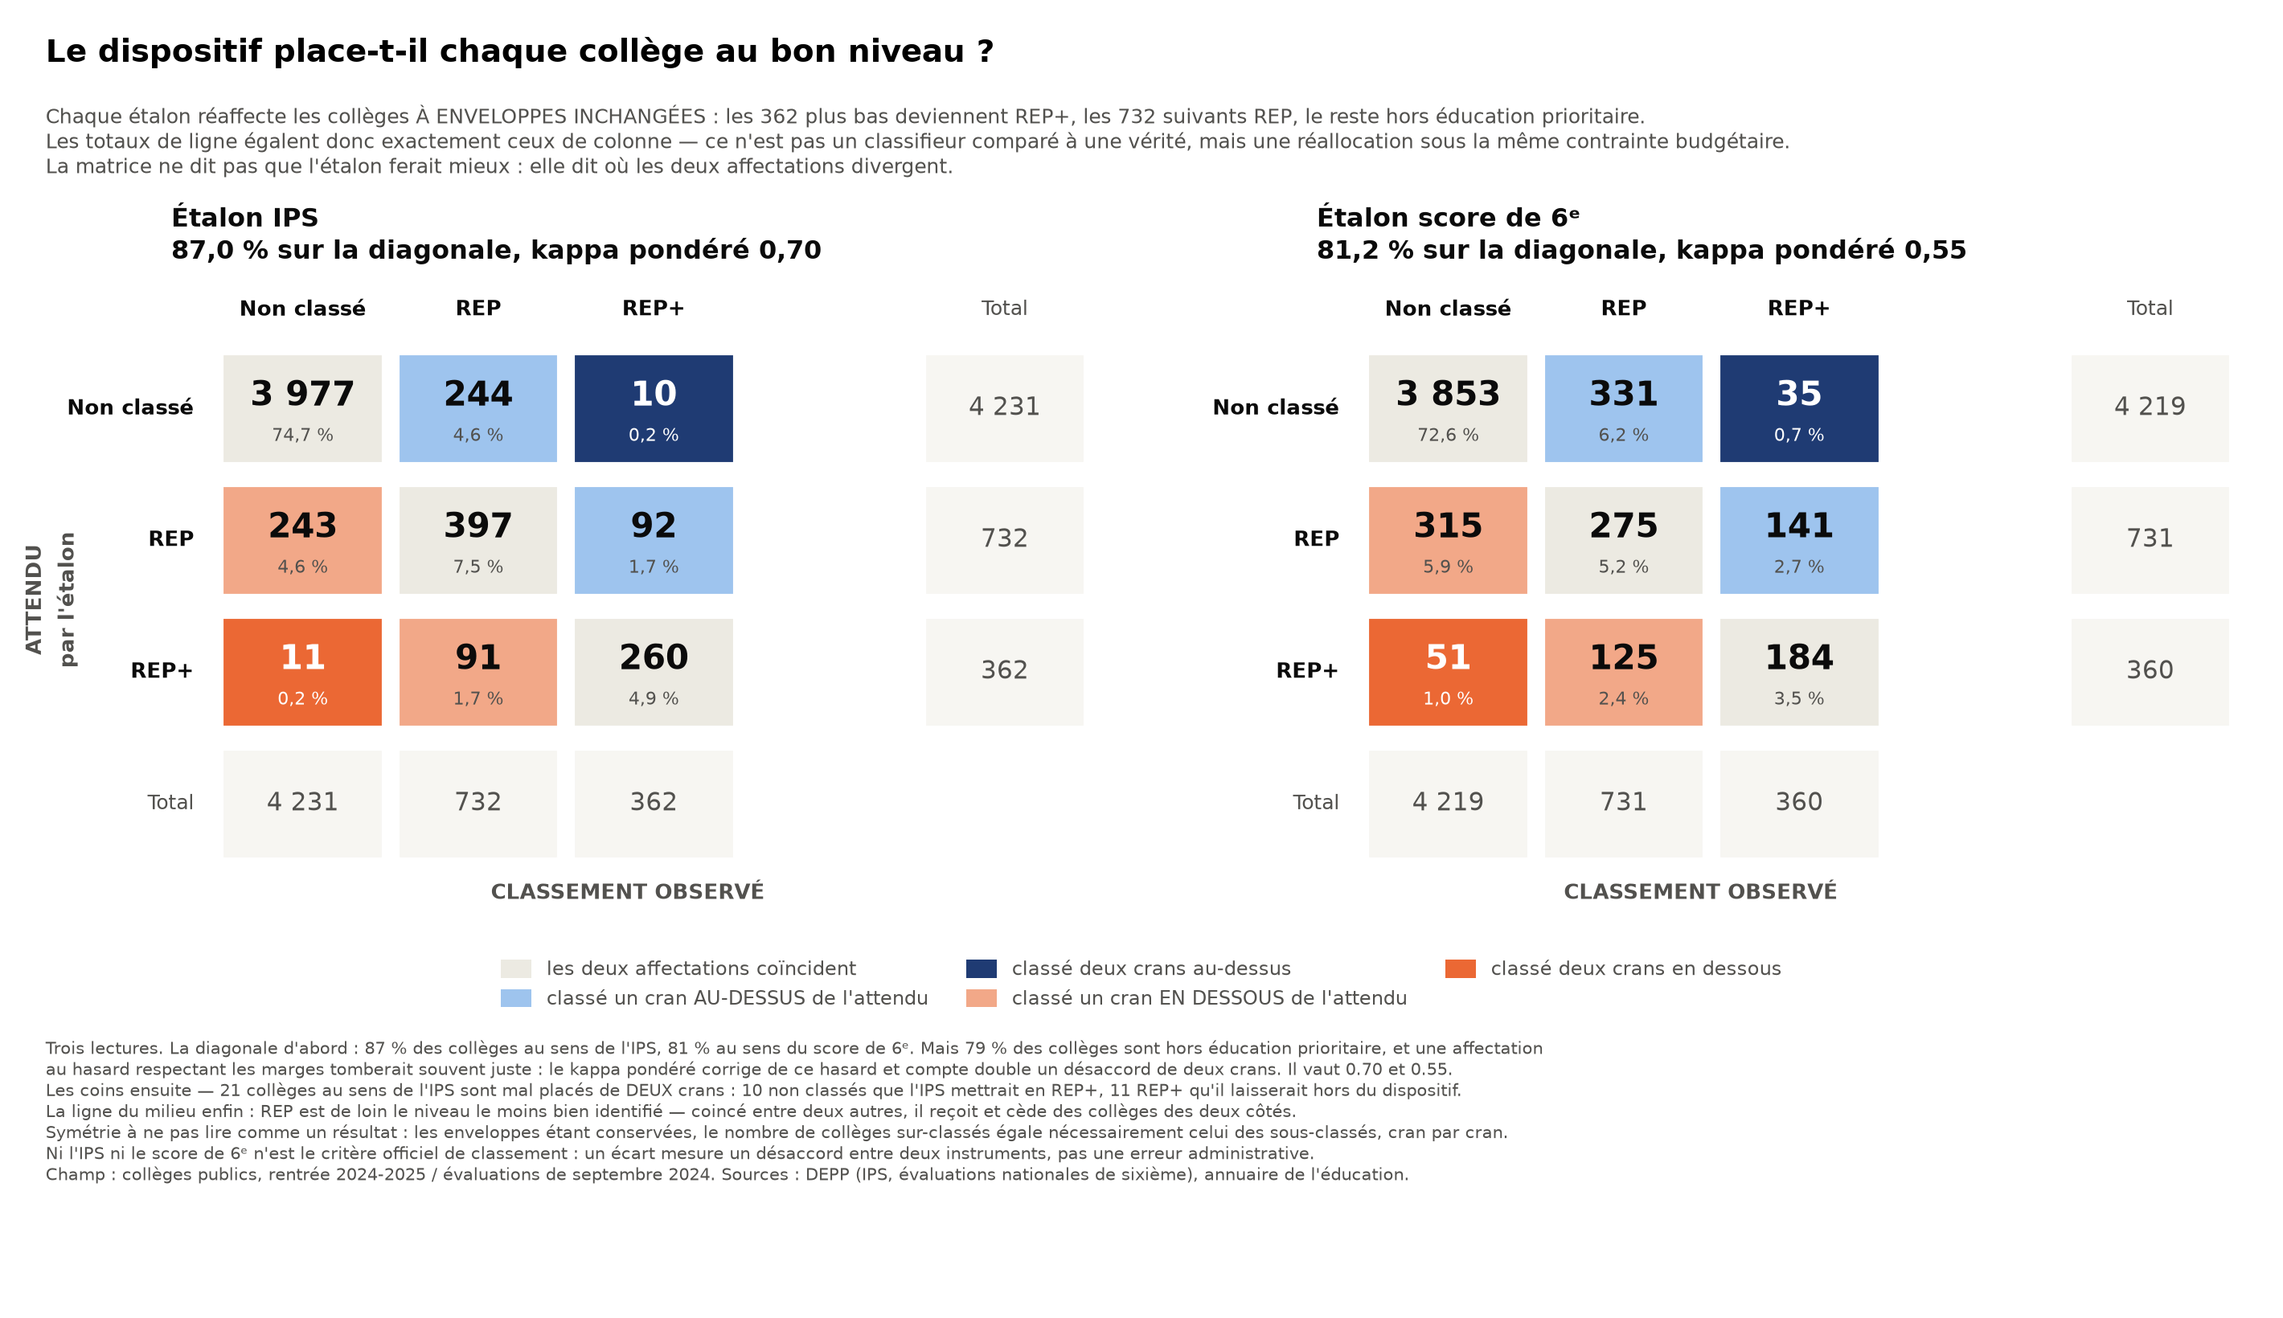
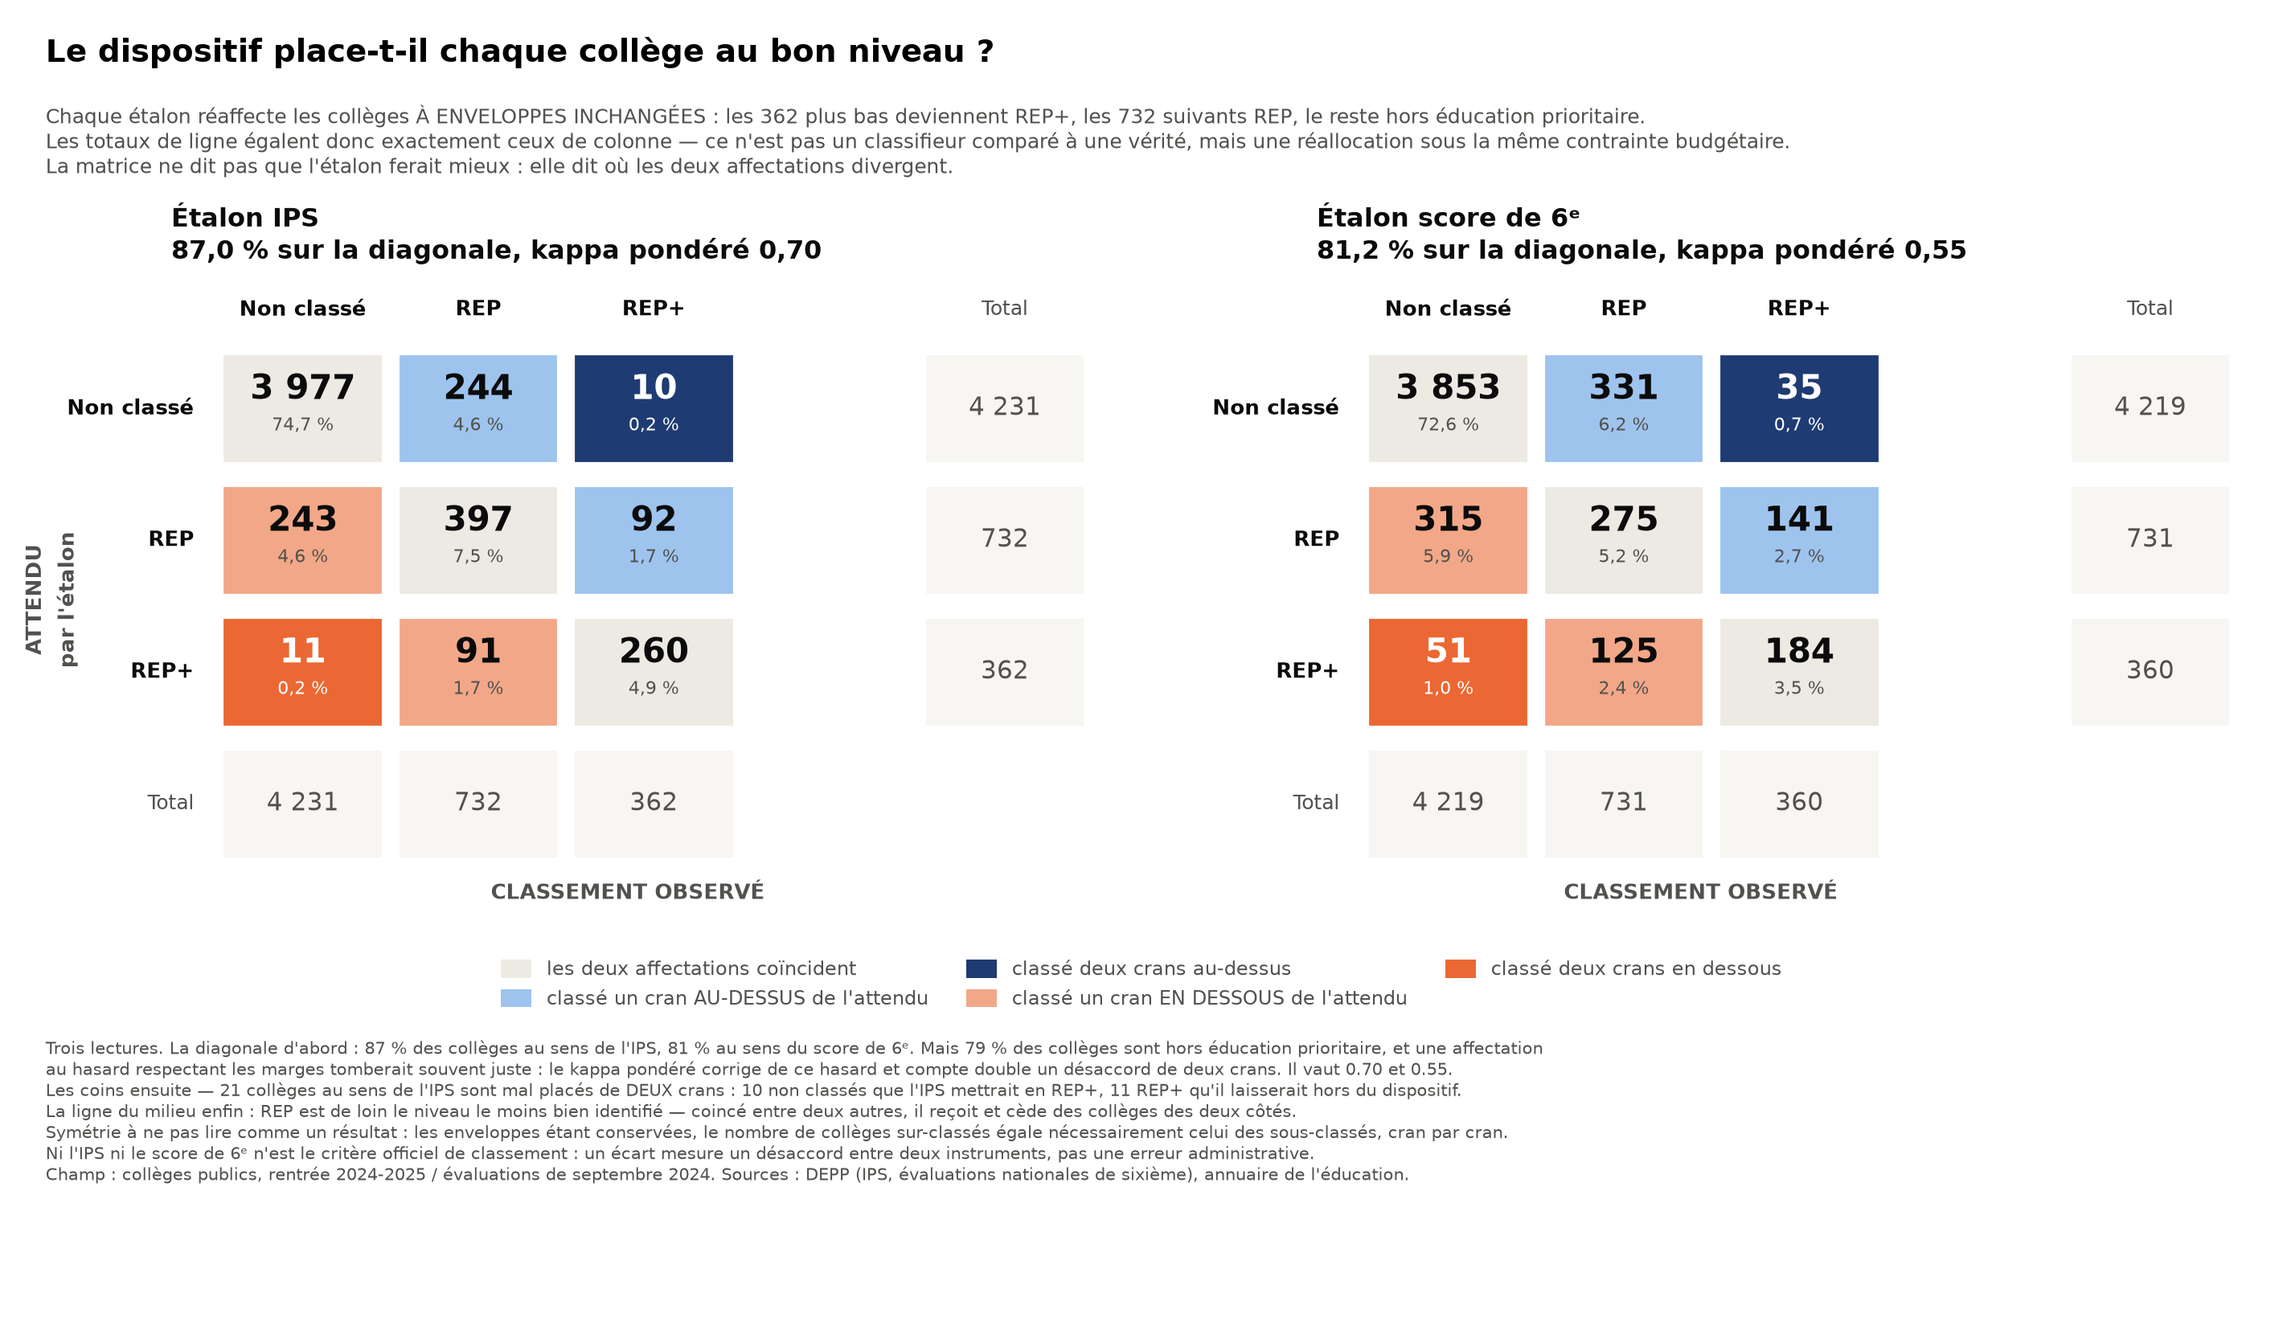
Seconde matrice : les desaccords que les marges d'interpretabilite n'expliquent pas
La premiere matrice compte comme desaccord des ecarts que l'instrument ne
permet pas de trancher. Les trois niveaux sont separes par DEUX seuils, et
autour de chacun l'etalon est aveugle : +/- 3 points d'IPS, recommandation de
la DEPP, et +/- 8 points de score de sixieme, soit deux erreurs-types de la
moyenne d'un college. La marge rejoint `etalons.py` sous `marge_interpretable`,
ou elle est justifiee.

Un college tombant dans une marge a plusieurs niveaux plausibles : son
classement observe ne peut pas etre contredit s'il figure parmi eux. On lui
attribue alors son niveau observe.

                      sans marge      avec marges
  IPS   diagonale        87,0 %          93,5 %
        kappa             0,70            0,85
  6e    diagonale        81,2 %          94,2 %
        kappa             0,55            0,83

CE QUE CE GAIN N'EST PAS

Ce n'est pas un resultat mais le prix de l'aveu d'imprecision : on cesse de
compter comme desaccords des cas sur lesquels on ne peut pas se prononcer. Le
chapo et la note le disent, faute de quoi la figure se lirait comme une
amelioration du dispositif.

Ce qui RESTE hors diagonale, en revanche, compte : 348 colleges au sens de
l'IPS et 310 au sens du score de sixieme sont franchement du mauvais cote d'un
seuil. Ce sont les seuls cas sur lesquels le projet se prononce.

UNE LIMITE PROPRE AU SCORE DE SIXIEME

Les deux seuils sont distants de 11 points pour les deux etalons. La marge de
[…]

diff --git a/src/matrices_classement.py b/src/matrices_classement.py
@@ -123,6 +123,109 @@ def matrice(cle: str) -> tuple[pd.DataFrame, dict]:
     return m, info
 
 
+def matrice_marges(cle: str) -> tuple[pd.DataFrame, dict]:
+    """Meme matrice, mais en tenant compte des marges d'interpretabilite.
+
+    LE PRINCIPE
+
+    Les trois niveaux sont separes par DEUX seuils : celui de REP+ et celui de
+    l'education prioritaire. Autour de chacun, l'etalon ne tranche pas — trois
+    points d'IPS, recommandation du producteur de la donnee ; huit points de
+    score de sixieme, soit deux erreurs-types de la moyenne d'un college.
+
+    Un college dont la valeur tombe dans l'une de ces marges a donc PLUSIEURS
+    niveaux plausibles, et son classement observe ne peut pas etre contredit
+    s'il figure parmi eux. On lui attribue alors son niveau observe.
+
+    La concordance augmente mecaniquement. Ce n'est pas un resultat mais une
+    consequence de l'aveu d'imprecision : on cesse de compter comme desaccords
+    des cas que l'instrument ne permet pas de trancher. Ce qui RESTE hors
+    diagonale, en revanche, est un desaccord que la marge n'explique pas.
+
+    LE CAS DES MARGES QUI SE CHEVAUCHENT
+
+    Les deux seuils sont distants de onze points pour les deux etalons. La
+    marge de l'IPS valant trois, les deux zones restent disjointes. Celle du
+    score de sixieme valant huit, elles se RECOUVRENT sur cinq points : 375
+    colleges s'y trouvent, pour lesquels aucun des trois niveaux ne peut etre
+    exclu. C'est une limite propre a cet etalon pour un classement a trois
+    niveaux, et la figure la signale.
+    """
+    fichier = DATA_PROCESSED / "colleges_2024_2025.csv"
+    colonne = ETALONS[cle]["colonne"]
+    marge = ETALONS[cle]["marge_interpretable"]
+
+    df = pd.read_csv(fichier)
+    df = df[df["secteur"] == "public"].dropna(subset=[colonne])
+    df = df.sort_values("uai").reset_index(drop=True)
+
+    n_plus = int((df["ep"] == "REP+").sum())
+    n_rep = int((df["ep"] == "REP").sum())
+    tries = df[colonne].sort_values().to_numpy()
+    seuil_plus, seuil_ep = tries[n_plus - 1], tries[n_plus + n_rep - 1]
+
+    valeurs = df[colonne].to_numpy()
+    en_marge_plus = np.abs(valeurs - seuil_plus) <= marge
+    en_marge_ep = np.abs(valeurs - seuil_ep) <= marge
+
+    rangs = df[colonne].rank(method="first")
+    central = np.select([rangs <= n_plus, rangs <= n_plus + n_rep],
+                        ["REP+", "REP"], default="hors EP")
+
+    # Niveaux plausibles : le niveau central, plus ceux que la marge rend
+    # indiscernables. Un college dans les deux marges a les trois.
+    plausibles = [{c} for c in central]
+    for i in np.where(en_marge_plus)[0]:
+        plausibles[i] |= {"REP+", "REP"}
+    for i in np.where(en_marge_ep)[0]:
+        plausibles[i] |= {"REP", "hors EP"}
+
+    df["central"] = central
+    df["conforme"] = [o in p for o, p in zip(df["ep"], plausibles)]
+    # L'attendu devient l'observe quand la marge interdit de le contredire.
+    df["attendu"] = np.where(df["conforme"], df["ep"], df["central"])
+
+    m = pd.crosstab(df["attendu"], df["ep"]).reindex(
+        index=NIVEAUX, columns=NIVEAUX, fill_value=0)
+
+    # Combien de colleges chaque marge fait-elle basculer sur la diagonale, et
+    # dans quelle case ? C'est ce que la figure detaille.
+    rattrape = df["conforme"] & (df["central"] != df["ep"])
+    apport = {
+        niveau: {
+            "ep": int((rattrape & en_marge_ep & ~en_marge_plus
+                       & (df["ep"] == niveau)).sum()),
+            "plus": int((rattrape & en_marge_plus & ~en_marge_ep
+                         & (df["ep"] == niveau)).sum()),
+            "deux": int((rattrape & en_marge_ep & en_marge_plus
+                         & (df["ep"] == niveau)).sum()),
+        }
+        for niveau in NIVEAUX}
+
+    rang = {n: i for i, n in enumerate(NIVEAUX)}
+    ecart = df["ep"].map(rang) - df["attendu"].map(rang)
+
+    obs = m.to_numpy() / len(df)
+    hasard = np.outer(obs.sum(axis=1), obs.sum(axis=0))
+    poids = 1 - np.abs(np.subtract.outer(range(3), range(3))) / 2
+    po, pe = (poids * obs).sum(), (poids * hasard).sum()
+
+    info = {
+        "cle": cle, "etalon": ETALONS[cle], "champ": len(df), "marge": marge,
+        "n_plus": n_plus, "n_rep": n_rep,
+        "seuil_plus": float(seuil_plus), "seuil_ep": float(seuil_ep),
+        "diagonale": int(np.trace(m.to_numpy())),
+        "kappa": (po - pe) / (1 - pe),
+        "ecarts": {v: int((ecart == v).sum()) for v in (-2, -1, 1, 2)},
+        "marge_plus": int(en_marge_plus.sum()),
+        "marge_ep": int(en_marge_ep.sum()),
+        "indecis": int((en_marge_plus & en_marge_ep).sum()),
+        "rattrapes": int(rattrape.sum()),
+        "apport": apport,
+    }
+    return m, info
+
+
 def resumer(m: pd.DataFrame, info: dict) -> None:
     """Affiche la matrice et ses indicateurs."""
     print(f"\n{'=' * 74}")
@@ -162,10 +265,10 @@ def panneau(ax, m: pd.DataFrame, info: dict) -> None:
                                        linewidth=1.5))
             # Texte blanc sur les deux teintes pleines, encre ailleurs.
             sombre = abs(j - i) == 2
-            ax.text(j, i - 0.09, f"{n:,}".replace(",", " "), ha="center",
+            ax.text(j, i - 0.14, f"{n:,}".replace(",", " "), ha="center",
                     va="center", fontsize=15, fontweight="bold",
                     color="white" if sombre else ENCRE)
-            ax.text(j, i + 0.21, f"{100 * n / total:.1f} %".replace(".", ","),
+            ax.text(j, i + 0.13, f"{100 * n / total:.1f} %".replace(".", ","),
                     ha="center", va="center", fontsize=8,
                     color="white" if sombre else ENCRE_2)
 
@@ -290,20 +393,147 @@ def figure(donnees: dict) -> None:
     print(f"\n[+] {chemin.name}")
 
 
+def panneau_marges(ax, m: pd.DataFrame, info: dict) -> None:
+    """Matrice tenant compte des marges, avec le detail de leur apport."""
+    panneau(ax, m, info)
+
+    # Dans chaque case de la diagonale, le detail de ce que les marges ont
+    # fait basculer. Sans lui, le gain serait invisible et la figure paraitrait
+    # simplement « meilleure » sans qu'on sache pourquoi.
+    #
+    # Les libelles sont abreges — EP, R+, 2x — parce que la forme developpee
+    # debordait de la case sur la voisine. La legende les developpe.
+    for i, niveau in enumerate(NIVEAUX):
+        apport = info["apport"][niveau]
+        morceaux = [f"{court} {apport[champ]}"
+                    for champ, court in (("ep", "EP"), ("plus", "R+"),
+                                         ("deux", "2×"))
+                    if apport[champ]]
+        if morceaux:
+            ax.text(i, i + 0.31, "marge · " + " · ".join(morceaux),
+                    ha="center", va="center", fontsize=6, color=ENCRE_2,
+                    style="italic")
+
+
+def figure_marges(donnees: dict, reference: dict) -> None:
+    """Les deux matrices, marges prises en compte."""
+    fig, axes = plt.subplots(1, 2, figsize=(14.2, 9.0))
+    fig.subplots_adjust(left=0.075, right=0.988, top=0.772, bottom=0.350,
+                        wspace=0.22)
+
+    for ax, cle in zip(axes, ETALONS):
+        panneau_marges(ax, *donnees[cle])
+
+    fig.text(0.022, 0.580, "ATTENDU\npar l'étalon", fontsize=9.5,
+             fontweight="bold", color=ENCRE_2, ha="center", va="center",
+             rotation=90, linespacing=1.6)
+    for x in (0.275, 0.745):
+        fig.text(x, 0.368, "CLASSEMENT OBSERVÉ", fontsize=9.5,
+                 fontweight="bold", color=ENCRE_2, ha="center")
+
+    poignees = [
+        plt.Rectangle((0, 0), 1, 1, facecolor=DIAGONALE,
+                      label="aucun désaccord, ou désaccord que la marge "
+                            "n'autorise pas à trancher"),
+        plt.Rectangle((0, 0), 1, 1, facecolor=BLEU_CLAIR,
+                      label="classé un cran au-dessus, hors marge"),
+        plt.Rectangle((0, 0), 1, 1, facecolor=BLEU,
+                      label="deux crans au-dessus"),
+        plt.Rectangle((0, 0), 1, 1, facecolor=ORANGE_CLAIR,
+                      label="classé un cran en dessous, hors marge"),
+        plt.Rectangle((0, 0), 1, 1, facecolor=ORANGE,
+                      label="deux crans en dessous"),
+    ]
+    legende = fig.legend(handles=poignees, loc="upper center",
+                         bbox_to_anchor=(0.5, 0.335), ncol=3, fontsize=8.5,
+                         frameon=False, handlelength=1.6, handleheight=1.1)
+    for texte in legende.get_texts():
+        texte.set_color(ENCRE_2)
+
+    ips, eval6 = donnees["ips"][1], donnees["eval6"][1]
+    ref_ips, ref_eval6 = reference["ips"][1], reference["eval6"][1]
+    gain_ips = 100 * (ips["diagonale"] - ref_ips["diagonale"]) / ips["champ"]
+    gain_ev = 100 * (eval6["diagonale"] - ref_eval6["diagonale"]) / eval6["champ"]
+
+    fig.suptitle("Les désaccords que les marges n'expliquent pas",
+                 fontsize=14, fontweight="bold", x=0.02, ha="left", y=0.974)
+    fig.text(0.02, 0.928,
+             f"Même matrice que la précédente, mais un collège dont la valeur "
+             f"tombe dans la marge d'un seuil ne peut pas être contredit : "
+             f"l'étalon n'y tranche pas.\n"
+             f"Marge de ±{ips['marge']:g} points pour l'IPS — recommandation de "
+             f"la DEPP — et de ±{eval6['marge']:g} pour le score de 6ᵉ, soit "
+             f"deux erreurs-types de la moyenne d'un collège.\n"
+             f"La concordance monte donc mécaniquement, de "
+             f"{gain_ips:+.1f} et {gain_ev:+.1f} points. Ce n'est pas un "
+             f"résultat : c'est le prix de l'aveu d'imprécision. Ce qui RESTE "
+             f"hors diagonale, en revanche, compte.",
+             fontsize=9, va="top", color=ENCRE_2)
+
+    fig.text(0.02, 0.252,
+             f"Il subsiste {ips['champ'] - ips['diagonale']} désaccords au sens "
+             f"de l'IPS et {eval6['champ'] - eval6['diagonale']} au sens du "
+             f"score de 6ᵉ — des collèges dont la valeur est franchement du "
+             f"mauvais côté d'un seuil,\n"
+             f"au-delà de ce que l'imprécision de l'instrument autorise. Ce sont "
+             f"les seuls cas sur lesquels le projet se prononce.\n"
+             f"Les deux seuils sont distants de 11 points pour les deux "
+             f"étalons. La marge de l'IPS valant 3, les deux zones restent "
+             f"disjointes. Celle du score de 6ᵉ valant 8, elles se RECOUVRENT :\n"
+             f"{eval6['indecis']} collèges s'y trouvent, pour lesquels aucun des "
+             f"trois niveaux ne peut être exclu. C'est une limite propre à cet "
+             f"étalon dès qu'on classe à trois niveaux.\n"
+             f"Sous chaque case de la diagonale, le détail de ce que les marges "
+             f"ont fait basculer, par seuil : EP pour celui de l'éducation "
+             f"prioritaire, R+ pour celui de REP+, 2× pour les collèges situés "
+             f"dans les deux.\n"
+             f"Les totaux de ligne ne coïncident plus avec ceux de colonne, à la "
+             f"différence de la matrice précédente : un collège de la marge "
+             f"prend son niveau observé, ce qui déplace les effectifs attendus. "
+             f"Les colonnes,\n"
+             f"elles, restent les enveloppes réelles. Les marges ne sortent "
+             f"jamais un collège de la diagonale, elles ne font que l'y amener.\n"
+             "Ni l'IPS ni le score de 6ᵉ n'est le critère officiel de "
+             "classement : un écart mesure un désaccord entre deux instruments, "
+             "pas une erreur administrative.\n"
+             "Champ : collèges publics, rentrée 2024-2025 / évaluations de "
+             "septembre 2024. Sources : DEPP (IPS, évaluations nationales de "
+             "sixième), annuaire de l'éducation.",
+             fontsize=7.5, va="top", color=ENCRE_2)
+
+    chemin = FIGURES / "matrices_classement_marges.png"
+    fig.savefig(chemin, dpi=200, facecolor="white")
+    plt.close(fig)
+    print(f"[+] {chemin.name}")
+
+
 def main() -> None:
-    donnees = {}
+    donnees, avec_marges = {}, {}
     for cle in ETALONS:
         m, info = matrice(cle)
         resumer(m, info)
         donnees[cle] = (m, info)
 
+        m2, info2 = matrice_marges(cle)
+        print(f"\n  --- marges d'interprétabilité (±{info2['marge']:g}) ---")
+        print(f"    marge REP+ : {info2['marge_plus']} colleges, "
+              f"marge EP : {info2['marge_ep']}, les deux : {info2['indecis']}")
+        print(f"    {info2['rattrapes']} colleges reclasses conformes")
+        print(f"    diagonale : {info2['diagonale']} "
+              f"({100 * info2['diagonale'] / info2['champ']:.1f} %), "
+              f"kappa {info2['kappa']:.3f}")
+        avec_marges[cle] = (m2, info2)
+
     figure(donnees)
+    figure_marges(avec_marges, donnees)
 
     DOSSIER_TABLES.mkdir(parents=True, exist_ok=True)
-    for cle, (m, _) in donnees.items():
-        chemin = DOSSIER_TABLES / f"matrice_classement_{cle}.csv"
-        m.to_csv(chemin, encoding="utf-8")
-        print(f"[+] {chemin.name}")
+    for cle in ETALONS:
+        for suffixe, (m, _) in (("", donnees[cle]),
+                                ("_marges", avec_marges[cle])):
+            chemin = DOSSIER_TABLES / f"matrice_classement_{cle}{suffixe}.csv"
+            m.to_csv(chemin, encoding="utf-8")
+            print(f"[+] {chemin.name}")
 
 
 if __name__ == "__main__":

diff --git a/src/etalons.py b/src/etalons.py
@@ -60,6 +60,9 @@ ETALONS = {
             "en deçà, la DEPP recommande de ne pas interpréter une différence "
             "d'IPS ; la borne haute est une convention, qui isole la queue "
             "extrême.",
+        # En deca de cet ecart, deux valeurs ne se distinguent pas. C'est la
+        # recommandation du producteur de la donnee.
+        "marge_interpretable": 3.0,
         # Pas de l'histogramme et arrondi d'affichage : l'IPS s'etale sur une
         # centaine de points, le score de sixieme sur plusieurs centaines.
         "pas_histogramme": 2.0,
@@ -87,6 +90,10 @@ ETALONS = {
             "moyenner ne réduit presque pas l'erreur. La borne vaut deux "
             "erreurs-types. La borne haute, elle, est calée sur la même rareté "
             "que les 10 points d'IPS.",
+        # Deux erreurs-types de la moyenne d'un college : voir ci-dessus. La
+        # DEPP ne publie pas de recommandation pour ce score, celle-ci est
+        # construite sur l'ecart-type qu'elle publie.
+        "marge_interpretable": 8.0,
         "pas_histogramme": 5.0,
         "decimales": 1,
     },
